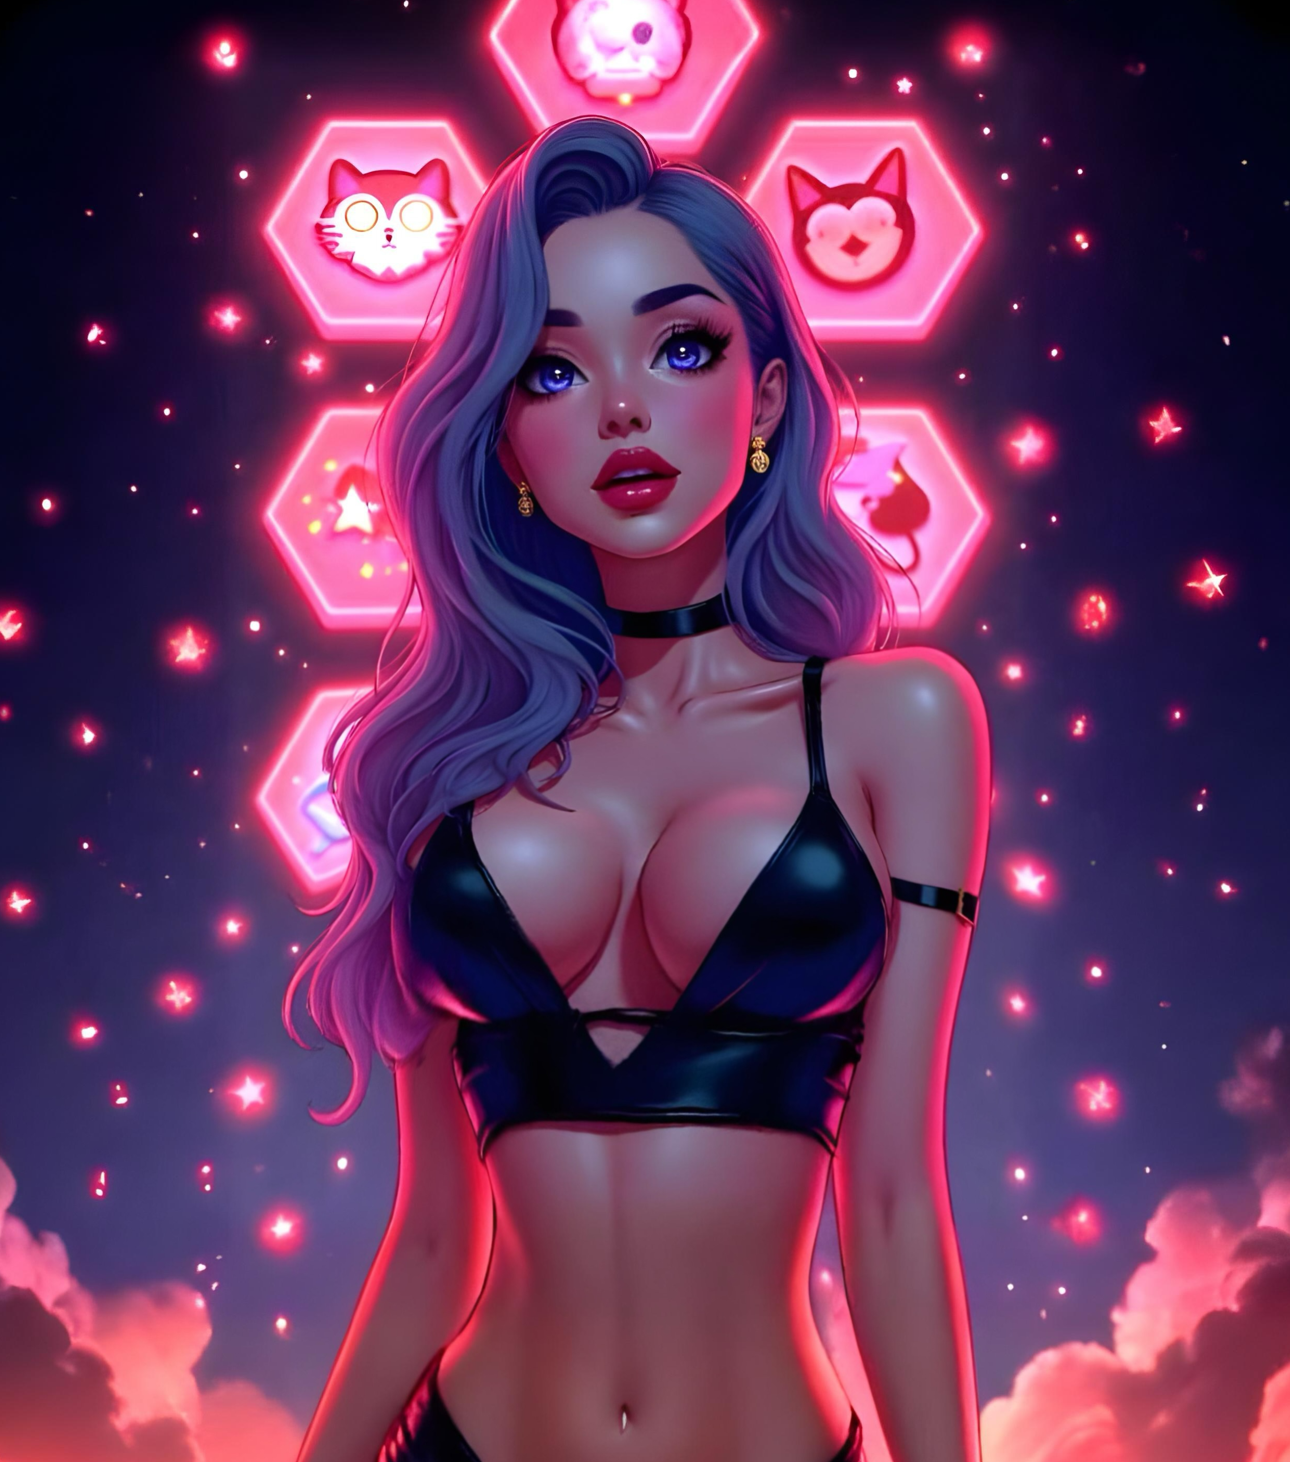
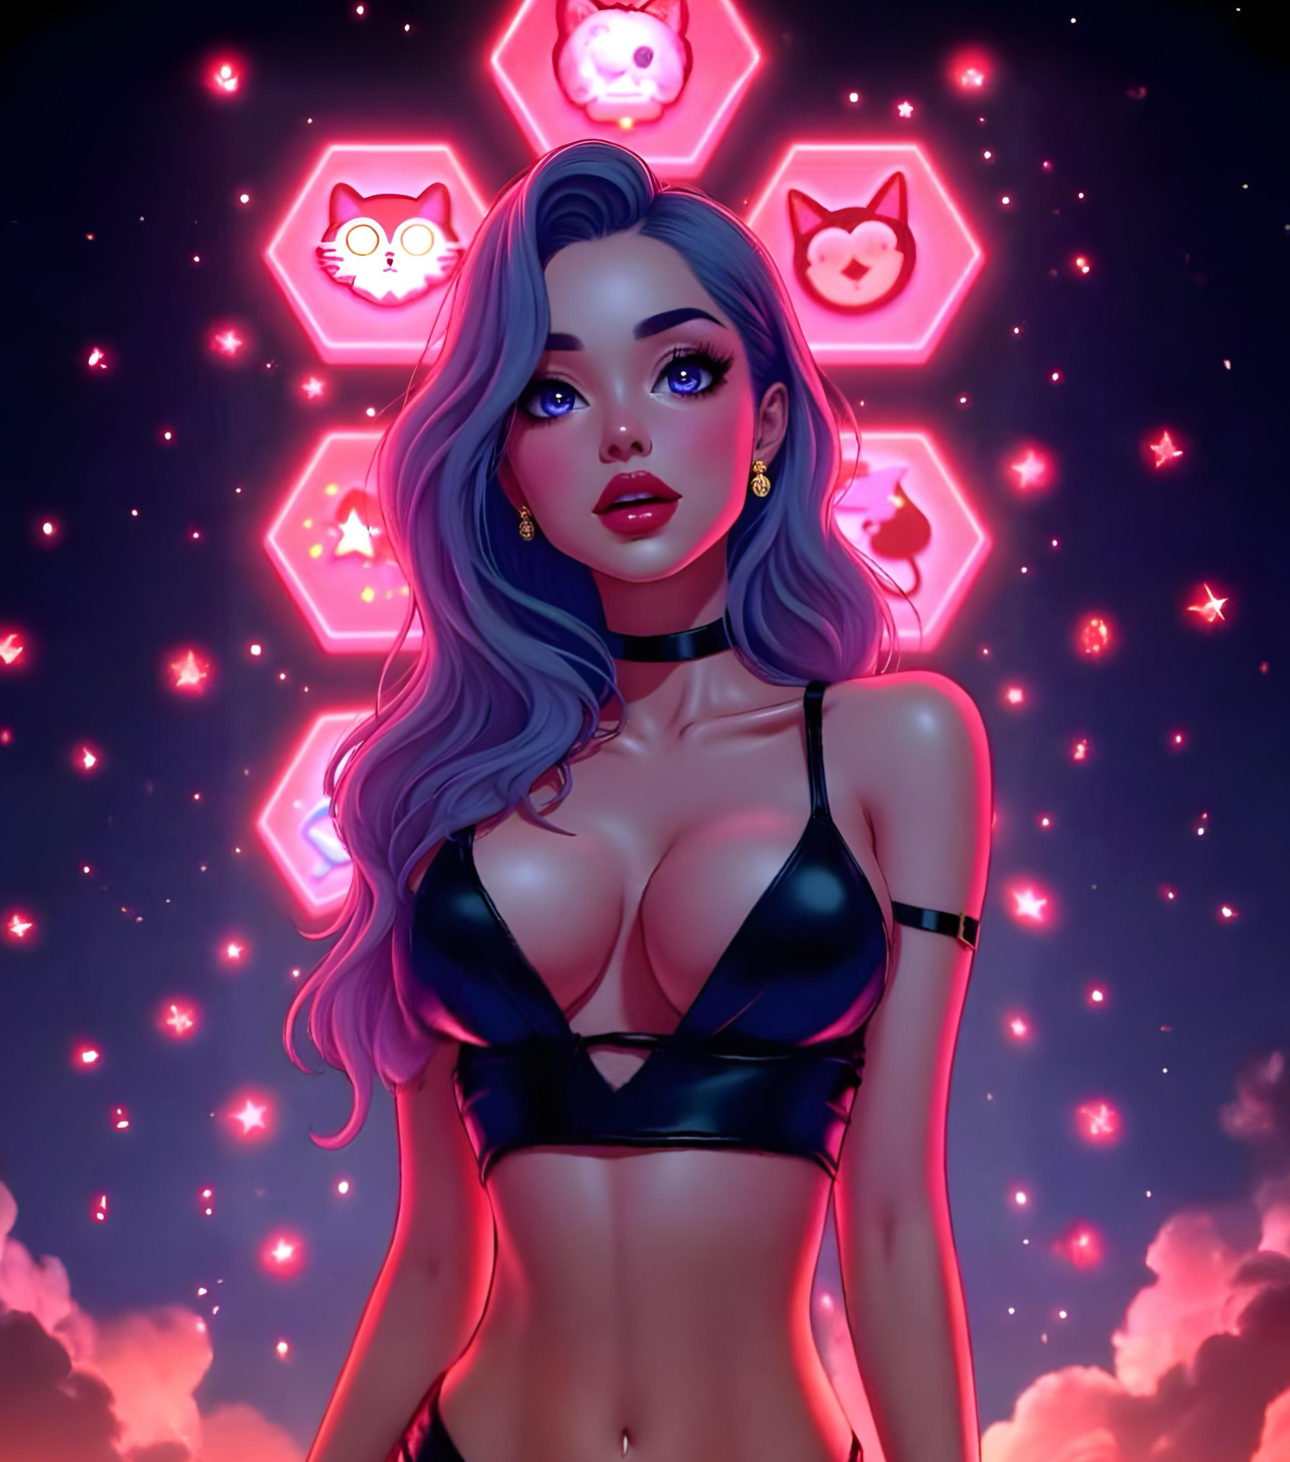
24

diff --git a/chonk.html b/chonk.html
@@ -1812,7 +1812,7 @@ button:hover {
   <!-- Field tab (active by default) 45-->
   <div id="fieldContent" class="tab-content active">
       <div class="cat-container">
-    <img src="btchonky22.jpg" alt="Chonk"/>
+    <img src="btchonky24.jpg" alt="Chonk"/>
 
    </div>
 
